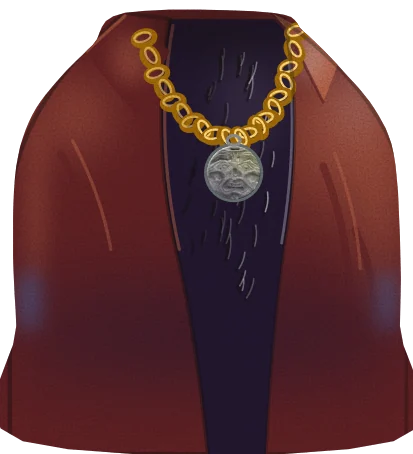
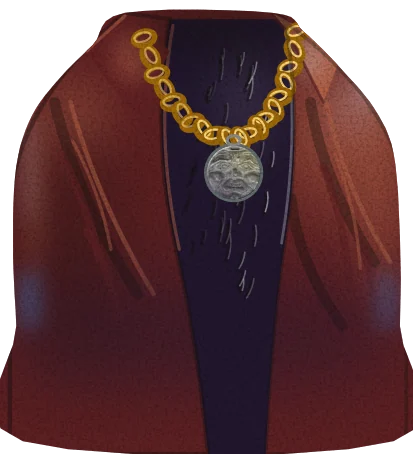
Rato: el brazo de allá detrás de la cabeza, las botas al costado y el chorro afuera
El brazo del porrón pasa por detrás de la cabeza (al brindar no le tapa el
hocico) y solo por delante cuando se seca la nariz. Las botas cuelgan al
costado del antebrazo, las vacía con el puño afuera del cuerpo y el agua
cae al lado de él. Rociado en la cara, el pecho y las mangas.

diff --git a/src/lib/bestiario/arte-rato.ts b/src/lib/bestiario/arte-rato.ts
@@ -91,6 +91,8 @@ const linea = (pts: readonly P[]): string => `M${pts.map(([x, y]) => `${f(x)} ${
 const elipse = (x: number, y: number, rx: number, ry: number): string =>
   `M${f(x - rx)} ${f(y)} a${f(rx)} ${f(ry)} 0 1 0 ${f(rx * 2)} 0 a${f(rx)} ${f(ry)} 0 1 0 ${f(-rx * 2)} 0 Z`;
 const conGrano = (s: string): string => `<g filter="url(#grano)">${s}</g>`;
+/** El rociado de la boquilla abierta encima del grano: el polvo grueso de la cara del interior de *Momo Sampler*. */
+const conRociado = (s: string): string => `<g filter="url(#rociado)">${conGrano(s)}</g>`;
 
 /**
  * La máscara del aerógrafo, con varias siluetas que se suman. La imprenta junta los caminos del
@@ -347,7 +349,7 @@ function cabeza(): string {
     const [cx, cy] = o.centro;
     const [rx, ry] = o.radio;
     return (
-      nube(cx, cy + 0.5, rx + 5, ry + 5, C.negro, 's', enLaLuz ? 0.55 : 0.75) +
+      nube(cx, cy + 0.5, rx + 5, ry + 5, C.negro, 's', enLaLuz ? 0.7 : 0.85) +
       `<ellipse cx="${cx}" cy="${cy}" rx="${rx}" ry="${ry}" fill="${C.blanco}"${enLaLuz ? '' : ' opacity="0.62"'}/>` +
       // La sombra del párpado sobre el blanco, y la esquina de adentro, rosada.
       nube(cx, cy - ry * 0.55, rx * 1.05, ry * 0.6, C.hondo, 'xs', 0.55) +
@@ -367,11 +369,14 @@ function cabeza(): string {
     // La mitad de la luz: la coronilla, la frente, el lomo del hocico y el cachete de allá. Soplado
     // de a capas, de lo hondo a lo claro, como la frente de la cara del interior.
     // La bóveda de la frente.
-    nube(16, -184, 20, 14, C.pelo, 'l', 0.95) +
+    nube(16, -184, 20, 14, C.pelo, 'l', 0.72) +
     nube(22, -190, 10, 6, C.pelo, 'm', 0.8) +
-    nube(-10, -198, 12, 6, C.pelo, 'm', 0.5) +
+    nube(-10, -198, 12, 6, C.pelo, 'm', 0.4) +
+    nube(14, -187, 14, 8, C.plata, 'l', 0.26) +
     // El hocico es un caño: prendido arriba, se apaga para abajo.
-    soplo('M22 -176 Q44 -158 58 -138 Q66 -127 72 -118 L66 -112 Q56 -122 46 -134 Q32 -152 16 -168 Z', C.pelo, 'm', 0.9) +
+    soplo('M22 -176 Q44 -158 58 -138 Q66 -127 72 -118 L66 -112 Q56 -122 46 -134 Q32 -152 16 -168 Z', C.pelo, 'm', 0.8) +
+    nube(36, -142, 5, 3, C.plata, 's', 0.35) +
+    nube(66, -125, 4, 2, C.plata, 's', 0.5) +
     nube(52, -118, 16, 5, C.hondo, 'm', 0.55, 30) +
     // El pómulo de allá, debajo del ojo, y la cuenca de ese ojo, que se hunde.
     nube(38, -138, 9, 7, C.pelo, 'm', 0.55) +
@@ -379,8 +384,10 @@ function cabeza(): string {
     peinadoMojado(rnd, 170, enElipse(rnd, 6, -156, 60, 56), flujoDeLaCabeza, 3.2, 8, luzDeLaCabeza, (p) => enPoligono(CABEZA, p)) +
     // Lo más mojado, donde más pega la luz: la frente y el lomo del hocico, en la plata de la nariz de
     // la cara del interior. Borde blando arriba, cortado abajo, como el brillo de un caño.
-    nube(18, -188, 10, 5, C.plata, 'm', 0.5) +
-    soplo('M26 -184 Q42 -166 54 -148 Q62 -136 70 -124 L67.6 -122.4 Q59 -134 51 -146 Q38 -164 23 -181 Z', C.plata, 'xs', 0.7) +
+    nube(18, -188, 10, 5, C.plata, 'm', 0.55) +
+    nube(22, -191, 3.4, 1.6, C.plata, 'xs', 0.85, -12) +
+    nube(44, -156, 2.2, 1.2, C.plata, 'xs', 0.8, -40) +
+    soplo('M26 -184 Q42 -166 54 -148 Q62 -136 70 -124 L67.6 -122.4 Q59 -134 51 -146 Q38 -164 23 -181 Z', C.plata, 'xs', 0.82) +
     nube(40, -156, 4, 8, C.plata, 's', 0.35, -40) +
     // El canto que da a la puerta: la luz tibia de la calle por el vidrio roto.
     trazo('M-10 -203.4 Q12 -203.4 26 -192 Q36 -181 43 -165 Q53 -148 66 -131 Q72 -124 75 -116', C.llama, 1.8, 0.6) +
@@ -426,7 +433,7 @@ function cabeza(): string {
     // Los poros de los bigotes, en el costado del hocico.
     [[54, -116], [58, -113], [62, -116], [56, -110], [60, -109], [64, -111], [52, -112]].map(([x, y]) => nube(x!, y!, 0.7, 0.6, C.negro, 'xs', 0.75)).join('') +
     brillos(m, 1223, 0.1, 0.35);
-  return conGrano(enmascarado('m-rato-cabeza', [silueta, orejaD, dientes], adentro));
+  return conRociado(enmascarado('m-rato-cabeza', [silueta, orejaD, dientes], adentro));
 }
 
 /** Un óvalo girado, en puntos (girando como el contorno de la cabeza, para que la máscara los sume). */
@@ -561,10 +568,17 @@ function cuerpo(): string {
     forma(silueta, C.rojoHondo) +
     // La camisa de raso: el hombro de allá agarra la luz de la puerta; el de acá, apenas el brillo.
     nube(40, -62, 18, 22, C.rojo, 'l', 0.9) +
-    nube(46, -70, 7, 9, C.plata, 'm', 0.3) +
+    nube(46, -70, 7, 9, C.plata, 'm', 0.42) +
+    nube(48, -74, 2.4, 3.4, C.plata, 's', 0.6) +
     nube(52, -40, 6, 30, C.rojo, 'm', 0.6) +
     nube(-44, -66, 12, 12, C.rojo, 'm', 0.5) +
     nube(-56, -40, 4, 26, C.rojo, 's', 0.35) +
+    // El lado de acá del pecho, lejos de la puerta, se hunde; el raso agarra un brillo largo en el canto.
+    nube(-46, -24, 16, 40, C.negro, 'l', 0.4) +
+    nube(-58, -50, 1.6, 18, C.plata, 's', 0.3) +
+    // Los pliegues grandes del raso mojado, cruzados, con el brillo del lado de la luz.
+    [[-50, -70, -24, -10], [30, -70, 50, -20], [24, -40, 40, 0]].map(([a, b, c, d]) => trazo(`M${a} ${b} Q${f((a! + c!) / 2 - 6)} ${f((b! + d!) / 2)} ${c} ${d}`, C.negro, 3.4, 0.35)).join('') +
+    [[-48, -70, -22, -10], [32, -70, 52, -20]].map(([a, b, c, d]) => trazo(`M${a! + 3} ${b} Q${f((a! + c!) / 2 - 2)} ${f((b! + d!) / 2)} ${c! + 3} ${d}`, C.rojo, 1.4, 0.55)).join('') +
     // Los pliegues del raso, donde se pega mojado.
     [[-48, -54, -36, -20], [-40, -30, -30, -2], [34, -50, 42, -14], [44, -30, 50, -4]].map(([a, b, c, d]) => trazo(`M${a} ${b} Q${f((a! + c!) / 2 + 3)} ${f((b! + d!) / 2)} ${c} ${d}`, C.rojoHondo, 2.4, 0.6)).join('') +
     [[-46, -58, -34, -24], [36, -54, 44, -18]].map(([a, b, c, d]) => trazo(`M${a! + 1.6} ${b} Q${f((a! + c!) / 2 + 4.6)} ${f((b! + d!) / 2)} ${c! + 1.6} ${d}`, C.rojo, 1, 0.5)).join('') +
@@ -593,7 +607,7 @@ function cuerpo(): string {
     nube(54, -8, 4, 10, C.celeste, 's', 0.4) +
     // `panoAlla` queda como recorte del raso: el canto del paño contra el pecho.
     `<path d="${panoAlla}" fill="none" stroke="${C.negro}" stroke-width="1.2" opacity="0.3"/>`;
-  return conGrano(enmascarado('m-rato-cuerpo', silueta, adentro));
+  return conRociado(enmascarado('m-rato-cuerpo', silueta, adentro));
 }
 
 /* ------------------------------------------------------------------
@@ -615,7 +629,7 @@ function brazo(n: 0 | 1): string {
       ? [0, 1, 2, 3].map((i) => trazo(`M${f(s[0] - 12)} ${f(codo[1] + 4 + i * 4.6)} Q${f(s[0])} ${f(codo[1] + 1 + i * 4.6)} ${f(s[0] + 12)} ${f(codo[1] + 5 + i * 4.6)}`, C.rojoHondo, 2, 0.75)).join('') +
         [0, 1, 2].map((i) => trazo(`M${f(s[0] - 6)} ${f(codo[1] + 6 + i * 4.6)} Q${f(s[0] + 2)} ${f(codo[1] + 3.6 + i * 4.6)} ${f(s[0] + 10)} ${f(codo[1] + 6.6 + i * 4.6)}`, C.rojo, 0.9, 0.55)).join('')
       : '';
-  return conGrano(
+  return conRociado(
     enmascarado(`m-rato-brazo-${n + 1}`, t.d,
       forma(t.d, C.rojoHondo) +
       nube(mx + 6 * luzDerecha, my, 7, L.brazo * 0.5, C.rojo, 'm', n === 1 ? 0.95 : 0.6) +
@@ -642,7 +656,7 @@ function antebrazo1(): string {
     nube(codo[0] + 7, (codo[1] + puno[1]) / 2 - 8, 1.8, 14, C.plata, 's', 0.4) +
     mechas(rnd, 40, enElipse(rnd, codo[0], (codo[1] + puno[1]) / 2, 8, 24), () => Math.PI / 2, 6, ([x]) => Math.max(0, (x - codo[0] + 2) / 10)) +
     brillos(m, 1279, 0.18, 0.45);
-  return conGrano(enmascarado('m-rato-antebrazo-1', silueta, adentro));
+  return conRociado(enmascarado('m-rato-antebrazo-1', silueta, adentro));
 }
 
 /**
@@ -696,7 +710,7 @@ function antebrazo2(): string {
     nube(mx, codo[1] - 4, 10, 5, C.hondo, 's', 0.5));
   const g = A.porron;
   const [px, py] = puno;
-  return conGrano(manga + `<g transform="rotate(${g} ${f(px)} ${f(py)})">${mano(puno, -1, 'm-rato-mano-2')}</g>`);
+  return conRociado(manga + `<g transform="rotate(${g} ${f(px)} ${f(py)})">${mano(puno, -1, 'm-rato-mano-2')}</g>`);
 }
 
 /**
@@ -900,11 +914,15 @@ function destello(t: Readonly<Record<string, string>>): string {
 
 /** El rato armado con las transformaciones de un gesto (`transformes`, `rig-rato.ts`). `ID` se cambia por el prefijo. */
 function armado(t: Readonly<Record<string, string>>): string {
-  // El brazo del porrón va delante de la cabeza: cuando se seca la nariz, la manga le pasa por abajo.
+  // El brazo del porrón es el de allá: va detrás de la cabeza. Cuando se seca la nariz, la manga le pasa
+  // por delante: para eso hay una copia encima de la cabeza, apagada, que se prende (las mismas imágenes).
+  const brazo2 = (s: string): string =>
+    parte(`brazo-2${s}`, img('rato-brazo-2') + parte(`antebrazo-2${s}`, parte(`porron${s}`, img('rato-porron'), t[`porron${s}`]) + img('rato-antebrazo-2'), t[`antebrazo-2${s}`]), t[`brazo-2${s}`]);
   return (
     img('rato-cuerpo') +
+    brazo2('') +
     parte('cabeza', img('rato-cabeza') + ojos(t) + destello(t) + parte('bigotes', img('rato-bigotes'), t.bigotes) + parte('oreja', img('rato-oreja'), t.oreja), t.cabeza) +
-    parte('brazo-2', img('rato-brazo-2') + parte('antebrazo-2', parte('porron', img('rato-porron'), t.porron) + img('rato-antebrazo-2'), t['antebrazo-2']), t['brazo-2']) +
+    `<g data-parte="delante" opacity="${t.delante}">${brazo2('-delante')}</g>` +
     parte('brazo-1', img('rato-brazo-1') + parte('antebrazo-1', img('rato-antebrazo-1') + parte('botas', img('rato-botas'), t.botas) + img('rato-puno-1'), t['antebrazo-1']), t['brazo-1'])
   );
 }
@@ -958,7 +976,7 @@ export function ratoEn(g: Gesto | 'nada' | 'brinda' = 'nada', prefijo = 'rato', 
     `<g transform="translate(0 ${agua * 2}) scale(1 -1)"><g data-parte="reflejo"><use href="#${id('entero')}"/></g></g></g>` +
     // Lo de adelante: las ondas, cortadas donde el agua lo toca, y el anillo de agua pegado al pecho.
     `<g aria-hidden="true" pointer-events="none" clip-path="url(#${id('mojado')})">` +
-    `<ellipse class="bajo-onda" cx="${R.x - 1}" cy="${agua + 0.6}" rx="${f(60 * R.escala)}" ry="3" opacity="0.3"/>` +
+    `<ellipse class="bajo-onda" cx="${R.x - 1}" cy="${agua + 0.6}" rx="${f(58 * R.escala)}" ry="2.6" opacity="0.22"/>` +
     ondas('adelante') +
     `</g>`
   );

diff --git a/src/lib/bestiario/rig-rato.ts b/src/lib/bestiario/rig-rato.ts
@@ -90,6 +90,11 @@ export interface Gesto {
   brillo: number;
   /** Cuánto gira el porrón adentro del puño, en grados (0 es como lo agarra nadando). */
   porron: number;
+  /**
+   * Si el brazo de allá pasa por delante de la cara (1) o por detrás (0). Es el de allá: va detrás de
+   * la cabeza, también cuando brinda; nada más cuando se seca la nariz la manga le pasa por delante.
+   */
+  delante: number;
 }
 
 /**
@@ -101,7 +106,7 @@ export const GESTOS: Readonly<Record<'nada' | 'brinda', Gesto>> = {
   nada: {
     sube: 0,
     mece: 0,
-    brazo1: [-43, 47],
+    brazo1: [-20, -40],
     brazo2: [164, -125],
     hamaca: 0,
     vuelca: 0,
@@ -116,11 +121,12 @@ export const GESTOS: Readonly<Record<'nada' | 'brinda', Gesto>> = {
     punta: 0,
     brillo: 0,
     porron: 0,
+    delante: 0,
   },
   brinda: {
     sube: 26,
     mece: -2,
-    brazo1: [-30, 4],
+    brazo1: [-10, -35],
     brazo2: [18, 10],
     hamaca: -6,
     vuelca: 0,
@@ -135,6 +141,7 @@ export const GESTOS: Readonly<Record<'nada' | 'brinda', Gesto>> = {
     punta: 8,
     brillo: 1,
     porron: 16,
+    delante: 0,
   },
 };
 
@@ -147,6 +154,7 @@ export const BRAZOS = {
   manga: [74, -137] as Punto,
   cansado: [-112, 127] as Punto,
   arriba: [-13, 10] as Punto,
+  vacia: [-28, 0] as Punto,
 } as const;
 /** Al secarse la nariz da vuelta el porrón para abajo, para no pegarse con él en la cara. */
 export const PORRON_EN_LA_MANGA = -72;
@@ -173,6 +181,7 @@ export function entre(a: Gesto, b: Gesto, k: number): Gesto {
     punta: m(a.punta, b.punta),
     brillo: m(a.brillo, b.brillo),
     porron: m(a.porron, b.porron),
+    delante: m(a.delante, b.delante),
   };
 }
 
@@ -190,25 +199,32 @@ export function brindando(e: number): Gesto {
  * Cuando vacía las botas, en segundos: el tirón para arriba, la vuelta, el chorro, la sacudida, las
  * vuelve a dar vuelta (con el brazo arriba, así no barren para el costado) y baja el brazo.
  */
-export const VUELCO = { tiron: 0.45, gira: 1.05, chorro: 2.0, sacude: 2.55, endereza: 3.05, fin: 3.6 } as const;
+export const VUELCO = { tiron: 0.45, gira: 1.05, afuera: 1.4, chorro: 2.25, sacude: 2.8, adentro: 3.1, endereza: 3.6, fin: 4.15 } as const;
 
-/** El brazo de las botas mientras las vacía, `u` segundos después de que tocaron el agua (`desde`: cómo quedó el brazo). */
+/**
+ * El brazo de las botas mientras las vacía, `u` segundos después de que tocaron el agua (`desde`: cómo
+ * quedó el brazo). Las da vuelta con el puño arriba del hombro, que así no barren fuera del bajo, y las
+ * saca para el costado para vaciarlas: el agua cae al lado de él, no encima.
+ */
 export function vuelco(u: number, desde: Punto): { brazo1: Punto; vuelca: number; hamaca: number } {
   const V = VUELCO;
   const a = BRAZOS.arriba;
-  const hacia = (de: Punto, k: number): Punto => [de[0] + (a[0] - de[0]) * k, de[1] + (a[1] - de[1]) * k];
-  if (u < V.tiron) {
-    const k = suave(u / V.tiron);
-    return { brazo1: hacia(desde, k), vuelca: 0, hamaca: 18 * Math.sin(k * Math.PI) };
-  }
-  if (u < V.gira) return { brazo1: a, vuelca: suave((u - V.tiron) / (V.gira - V.tiron)), hamaca: 0 };
-  if (u < V.chorro) return { brazo1: a, vuelca: 1, hamaca: Math.sin((u - V.gira) * 3) * 2 };
-  if (u < V.sacude) return { brazo1: [a[0] + Math.sin(u * 25) * 3, a[1]], vuelca: 1, hamaca: Math.sin(u * 25) * 14 };
-  if (u < V.endereza) return { brazo1: a, vuelca: 1 - suave((u - V.sacude) / (V.endereza - V.sacude)), hamaca: 0 };
-  const k = suave((u - V.endereza) / (V.fin - V.endereza));
+  const v = BRAZOS.vacia;
+  const de = (p: Punto, q: Punto, k: number): Punto => [p[0] + (q[0] - p[0]) * k, p[1] + (q[1] - p[1]) * k];
+  const k = (d: number, h: number): number => suave((u - d) / (h - d));
+  if (u < V.tiron) return { brazo1: de(desde, a, k(0, V.tiron)), vuelca: 0, hamaca: 18 * Math.sin(k(0, V.tiron) * Math.PI) };
+  if (u < V.gira) return { brazo1: a, vuelca: k(V.tiron, V.gira), hamaca: 0 };
+  if (u < V.afuera) return { brazo1: de(a, v, k(V.gira, V.afuera)), vuelca: 1, hamaca: -6 * Math.sin(k(V.gira, V.afuera) * Math.PI) };
+  if (u < V.chorro) return { brazo1: v, vuelca: 1, hamaca: Math.sin((u - V.afuera) * 3) * 2 };
+  if (u < V.sacude) return { brazo1: [v[0] + Math.sin(u * 25) * 3, v[1]], vuelca: 1, hamaca: Math.sin(u * 25) * 14 };
+  if (u < V.adentro) return { brazo1: de(v, a, k(V.sacude, V.adentro)), vuelca: 1, hamaca: 0 };
+  if (u < V.endereza) return { brazo1: a, vuelca: 1 - k(V.adentro, V.endereza), hamaca: 0 };
   const n = GESTOS.nada.brazo1;
-  return { brazo1: [a[0] + (n[0] - a[0]) * k, a[1] + (n[1] - a[1]) * k], vuelca: 0, hamaca: Math.sin(k * Math.PI) * -6 };
+  return { brazo1: de(a, n, k(V.endereza, V.fin)), vuelca: 0, hamaca: Math.sin(k(V.endereza, V.fin) * Math.PI) * -6 };
 }
+
+/** El chorro de las botas sale mientras están dadas vuelta y afuera, al costado. */
+export const chorreaEn = (u: number): boolean => u > VUELCO.afuera - 0.1 && u < VUELCO.sacude + 0.05;
 
 /** Cuánto se corre la pupila adentro del blanco, en el títere. */
 export const MIRA = [3.2, 1.6] as const;
@@ -310,6 +326,9 @@ export function transformes(g: Gesto): Record<string, string> {
   t.botas = `rotate(${n2(anguloBotas(b1, g))} ${p1[0]} ${p1[1]})`;
   const p2 = dibujado(1).puno;
   t.porron = `rotate(${n2(g.porron)} ${p2[0]} ${p2[1]})`;
+  // La copia del brazo de allá que pasa por delante de la cara: los mismos giros, y se prende o se apaga.
+  for (const n of ['brazo-2', 'antebrazo-2', 'porron']) t[`${n}-delante`] = t[n]!;
+  t.delante = g.delante > 0.5 ? '1' : '0';
   for (const n of [1, 2] as const) {
     t[`pupila-${n}`] = `translate(${n2(g.mira[0] * MIRA[0])} ${n2(g.mira[1] * MIRA[1])})`;
     const [px, py] = PIVOTES_PARPADO[n - 1]!;

diff --git a/src/scripts/bestiario/rato.ts b/src/scripts/bestiario/rato.ts
@@ -22,7 +22,7 @@
  */
 
 import {
-  BRAZOS, GESTOS, PORRON_EN_LA_MANGA, RATO, RATO_ARMADO, VERSO, VUELCO, alRecinto, brazos, brindando, enLaCabeza, entre, suelas, transformes, vuelco,
+  BRAZOS, GESTOS, PORRON_EN_LA_MANGA, RATO, RATO_ARMADO, VERSO, VUELCO, alRecinto, brazos, brindando, chorreaEn, enLaCabeza, entre, suelas, transformes, vuelco,
   type Gesto, type Punto,
 } from '../../lib/bestiario/rig-rato.ts';
 import { hacia, partes, suave } from './articular.ts';
@@ -127,6 +127,9 @@ export function armarRatoCon(marcos: readonly SVGGElement[], esc: Escenario, aza
         const frota = Math.sin(Math.max(0, u - 0.42) * Math.PI * 2.6) * 11 * Math.min(1, suave((u - 0.3) / 0.2)) * e;
         g = entre(g, { ...g, brazo2: [BRAZOS.manga[0], BRAZOS.manga[1]], porron: PORRON_EN_LA_MANGA, cabeza: 4, corre: [1, 1], mira: [0.2, 0.6], parpados: [0.66, 0.62] }, e);
         g.brazo2 = [g.brazo2[0] + frota * 0.35, g.brazo2[1] + frota];
+        // El porrón se da vuelta antes de que el puño llegue a la cara, y la manga pasa por delante.
+        g.porron = PORRON_EN_LA_MANGA * suave(Math.min(1, e * 2.5));
+        g.delante = e > 0.1 ? 1 : 0;
         g.bigotes = -frota * 0.4;
         break;
       }
@@ -263,7 +266,7 @@ export function armarRatoCon(marcos: readonly SVGGElement[], esc: Escenario, aza
     // El chorro de las botas dadas vuelta: de la boca de la caña, que está en el puño, hasta el agua.
     const chorro = p.get('chorro');
     const u = t - desde;
-    chorrea = modo === 'vuelca' && u > VUELCO.gira - 0.15 && u < VUELCO.sacude + 0.1;
+    chorrea = modo === 'vuelca' && chorreaEn(u);
     if (chorro) {
       if (chorrea) {
         const [x, y] = alRecinto(brazos(g)[0].puno, g);
@@ -284,7 +287,7 @@ export function armarRatoCon(marcos: readonly SVGGElement[], esc: Escenario, aza
     for (const [nombre, valor] of Object.entries(t)) {
       const el = p.get(nombre);
       if (!el) continue;
-      if (nombre === 'brillo') el.setAttribute('opacity', valor);
+      if (nombre === 'brillo' || nombre === 'delante') el.setAttribute('opacity', valor);
       else el.setAttribute('transform', valor);
     }
   }

diff --git a/src/lib/bestiario/rato.test.ts b/src/lib/bestiario/rato.test.ts
@@ -4,7 +4,7 @@ import { readFileSync } from 'node:fs';
 import { capasDe, retratoDe } from './elenco.ts';
 import { CABEZA, CUERPO, MEDALLON, PIEZAS_RATO, RETRATO, TIRAS } from './arte-rato.ts';
 import {
-  BOTAS, BRAZOS, GESTOS, PORRON_EN_LA_MANGA, RATO, RATO_ARMADO, VERSO, VUELCO, alRecinto, anguloPorron, brazo, brazos, brindando, dibujado, enLaCabeza, entre, suelas, vuelco,
+  BOTAS, BRAZOS, GESTOS, PORRON_EN_LA_MANGA, RATO, RATO_ARMADO, VERSO, VUELCO, alRecinto, anguloPorron, brazo, brazos, brindando, chorreaEn, dibujado, enLaCabeza, entre, suelas, vuelco,
   type Gesto, type Punto,
 } from './rig-rato.ts';
 import { BAJO } from './rig.ts';
@@ -128,6 +128,12 @@ test('las botas no se mojan: en alto nadando y brindando, y solo tocan el agua c
   // Dadas vuelta para sacarles el agua, la boca de la caña queda abajo y la suela arriba del puño.
   const b = brazo(0, BRAZOS.arriba);
   assert.ok(suelas(POSES.vuelca!)[1] < b.puno[1] - BOTAS.largo * 0.8, 'vaciándolas no las da vuelta');
+  // El agua que les sale cae al costado de él, no encima: el puño queda afuera del cuerpo y del codo.
+  for (let u = 0; u < VUELCO.fin; u += 0.05) {
+    if (!chorreaEn(u)) continue;
+    const b1 = brazo(0, vuelco(u, BRAZOS.cansado).brazo1);
+    assert.ok(b1.puno[0] < Math.min(...CUERPO.map((p) => p[0])) - 12 && b1.puno[0] < b1.codo[0] - 10, `a ${u.toFixed(2)} s el chorro le cae encima`);
+  }
   // Nadando cuelgan derecho, aunque el brazo esté doblado.
   assert.ok(Math.abs(suelas(GESTOS.nada)[0] - brazos(GESTOS.nada)[0].puno[0]) < 1);
 });
